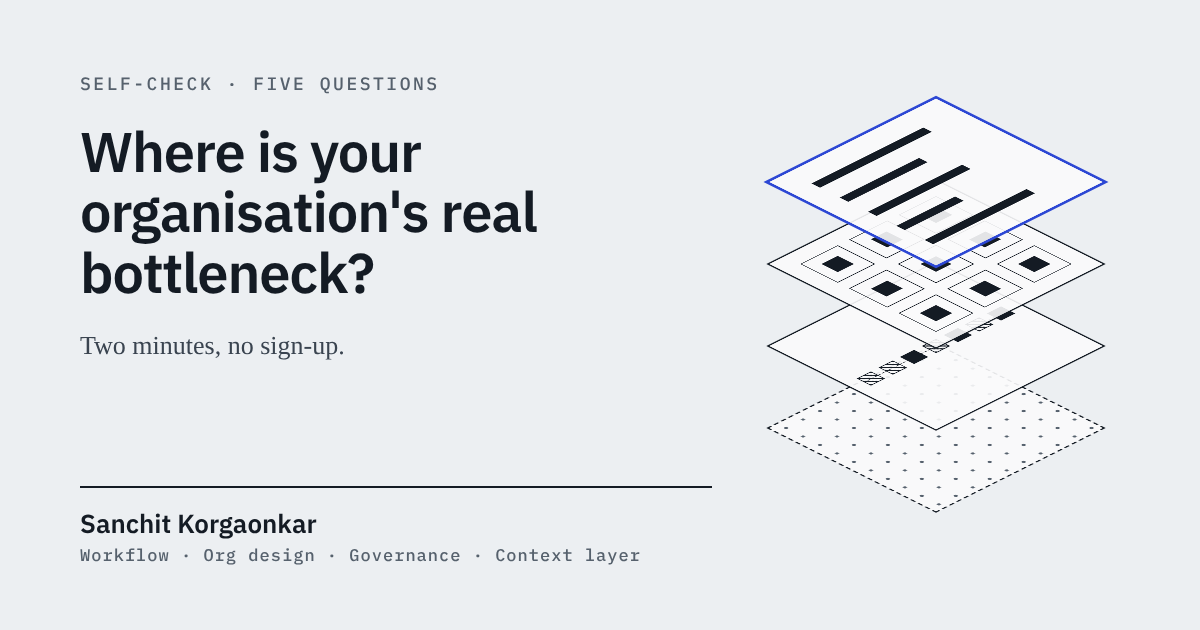
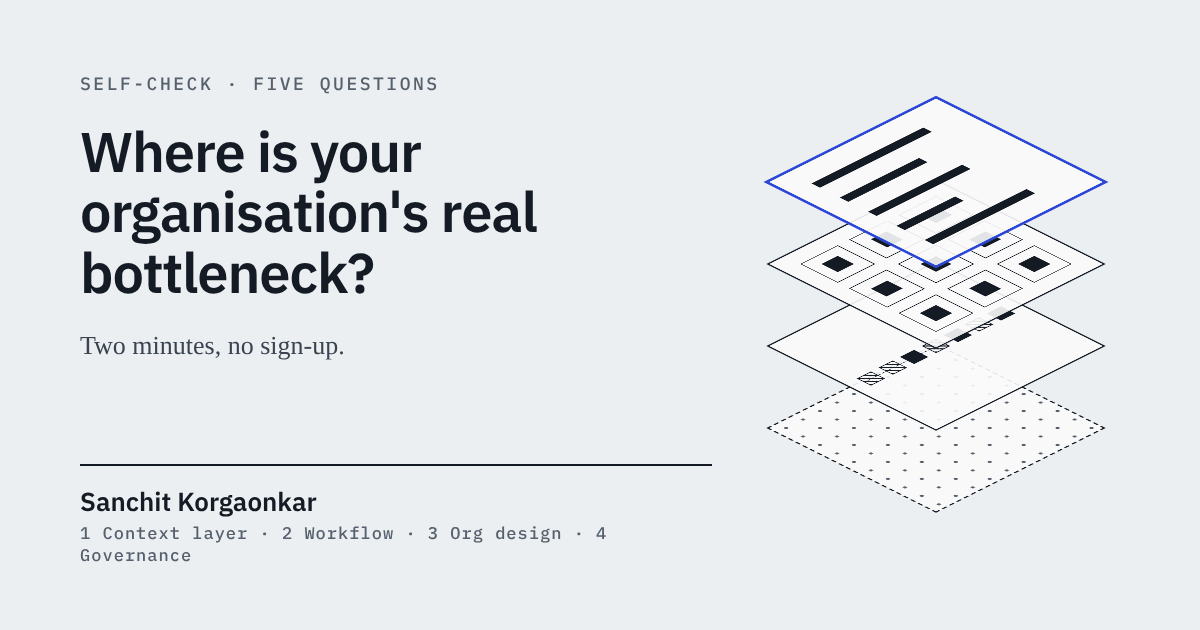
Number the four layers 1–4 across the site
1 Context layer · 2 Workflow · 3 Org design · 4 Governance, from the
foundation up. Numbered badges in the layer strip, diagram, shifts,
walk-through, essay tags, About cards and self-check; layers listed in
number order everywhere; previous/next layer links; share images updated.

Claude-Session: https://claude.ai/code/session_01E4CYKML3CpARvCWn8xb54G

Changed region(s): [[0.0617, 0.7238, 0.5858, 0.9048]]

diff --git a/src/js/model.js b/src/js/model.js
@@ -149,7 +149,7 @@
   const ck = $('[data-interactive="check"]');
   if (ck) {
     const L = JSON.parse($("#check-layers").textContent);
-    const ORDER = ["workflow", "org", "governance", "context"];
+    const ORDER = ["context", "workflow", "org", "governance"];
     const QS = [
       { q: "When AI tools sped up your engineers, what happened to releases?", o: [["They go out noticeably faster", {}], ["About the same as before", { workflow: 2 }], ["Honestly, we can't tell", { governance: 2 }]] },
       { q: "Where does finished work usually wait?", o: [["In development", {}], ["In review or approval", { workflow: 2 }], ["On another team", { org: 2 }]] },
@@ -174,8 +174,8 @@
         const tops = ORDER.filter(k => s[k] === max && max > 0), top = tops[0];
         try { window.va && window.va("event", { name: "Self-check finished", data: { result: top || "none" } }); } catch (e) {}
         ck.innerHTML = `<span class="m-illus">A conversation starter, not a benchmark</span>
-          <h2>${top ? `Your likely bottleneck: ${L[top].name.toLowerCase()}${tops.length > 1 ? ` and ${L[tops[1]].name.toLowerCase()}` : ""}.` : "No obvious bottleneck from these answers."}</h2>
-          <div class="m-scores">${ORDER.map(k => `<div class="m-score ${k === top ? "top" : ""}"><b>${L[k].name}</b><span class="bar"><i style="width:${(s[k] / 4) * 100}%"></i></span></div>`).join("")}</div>
+          <h2>${top ? `Your likely bottleneck: layer ${L[top].n}, ${L[top].name.toLowerCase()}${tops.length > 1 ? `, and layer ${L[tops[1]].n}, ${L[tops[1]].name.toLowerCase()}` : ""}.` : "No obvious bottleneck from these answers."}</h2>
+          <div class="m-scores">${ORDER.map(k => `<div class="m-score ${k === top ? "top" : ""}"><b><span class="m-num">${L[k].n}</span>${L[k].name}</b><span class="bar"><i style="width:${(s[k] / 4) * 100}%"></i></span></div>`).join("")}</div>
           ${top ? `<p class="m-body">${L[top].title}</p>
             <div class="m-learned"><article><h3>What I'd look at first</h3><p>${L[top].questions[1]} ${L[top].questions[2]}</p></article></div>
             <div class="m-row"><a class="m-btn primary" href="/${L[top].slug}/">See how I approached it</a><button type="button" class="m-linkbtn" data-again>Start over</button></div>`

diff --git a/src/_data/layers.js b/src/_data/layers.js
@@ -1,11 +1,13 @@
-// The four layers of the operating model, top of the stack first.
-// One vocabulary everywhere: Workflow · Org design · Governance · Context layer.
+// The four layers of the operating model, numbered from the foundation up:
+// 1 Context layer · 2 Workflow · 3 Org design · 4 Governance. Exported in number order.
+// One vocabulary everywhere: 1 Context layer · 2 Workflow · 3 Org design · 4 Governance.
 // Rule: at most one number per layer, in `field`.
 // To add a video, set `video.youtube` to the YouTube video ID.
 
-module.exports = [
+const layers = [
   {
     key: "governance",
+    n: 4,
     shift: ["Teams write status for leadership", "Teams correct a draft and own it"],
     slug: "governance",
     name: "Governance",
@@ -35,6 +37,7 @@ module.exports = [
   },
   {
     key: "org",
+    n: 3,
     shift: ["Functions own their piece of the work", "Small teams own an outcome end to end"],
     slug: "org-design",
     name: "Org design",
@@ -64,6 +67,7 @@ module.exports = [
   },
   {
     key: "workflow",
+    n: 2,
     shift: ["Building is the scarce step", "Deciding it's right is the scarce step"],
     slug: "workflow",
     name: "Workflow",
@@ -94,6 +98,7 @@ module.exports = [
   },
   {
     key: "context",
+    n: 1,
     shift: ["Context sits in each team's tools", "Context is assembled where everyone reads it"],
     slug: "context-layer",
     name: "Context layer",
@@ -122,3 +127,5 @@ module.exports = [
     video: { title: "The context layer in 90 seconds", length: "1:30", youtube: null }
   }
 ];
+
+module.exports = layers.sort((a, b) => a.n - b.n);

diff --git a/src/css/model.css b/src/css/model.css
@@ -442,3 +442,15 @@ p{margin:0}
 .m-about-role{font:inherit;letter-spacing:0;display:flex;flex-direction:column;gap:2px}
 .m-about-role b{font-weight:600;font-size:18px;color:var(--ink)}
 .m-about-role span{font-size:16px;color:var(--muted)}
+
+/* ===== layer number badge ===== */
+.m-num{display:inline-grid;place-items:center;min-width:18px;height:18px;padding:0 4px;margin-right:7px;border-radius:3px;
+  background:var(--ink);color:var(--paper);font:600 11px/1 var(--f-mono);font-variant-numeric:tabular-nums;vertical-align:.12em;flex:none}
+.m-where a .m-num{margin-right:0}
+.m-where a[aria-current="page"] .m-num{background:var(--accent)}
+.m-iso-labels a.hot .m-num,.m-iso-labels a:hover .m-num{background:var(--accent)}
+.m-shift .ly{display:flex;align-items:center}
+.m-pager b{display:inline-flex;align-items:center}
+.m-pager a.next b{justify-content:flex-end}
+.m-now-head .m-num{margin-right:0}
+.m-score b{display:flex;align-items:center}
